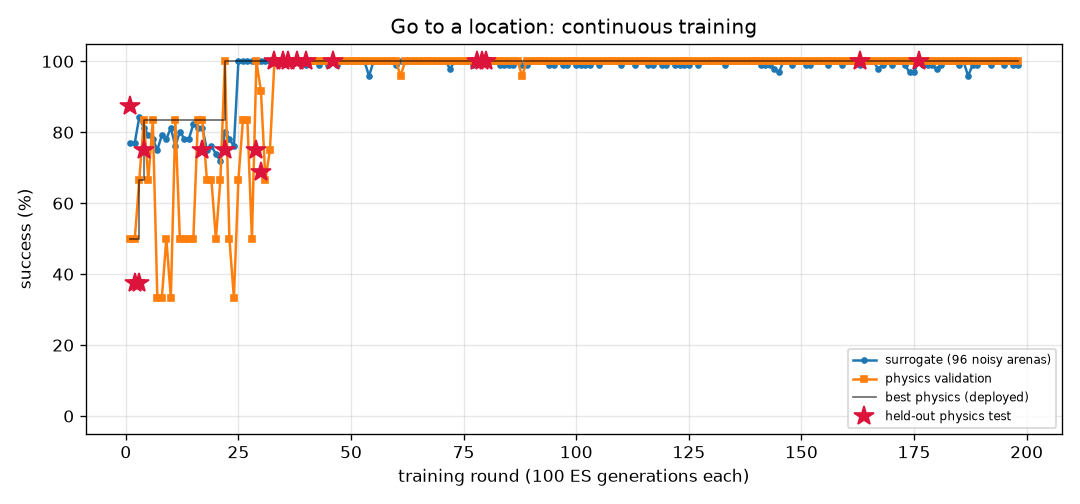
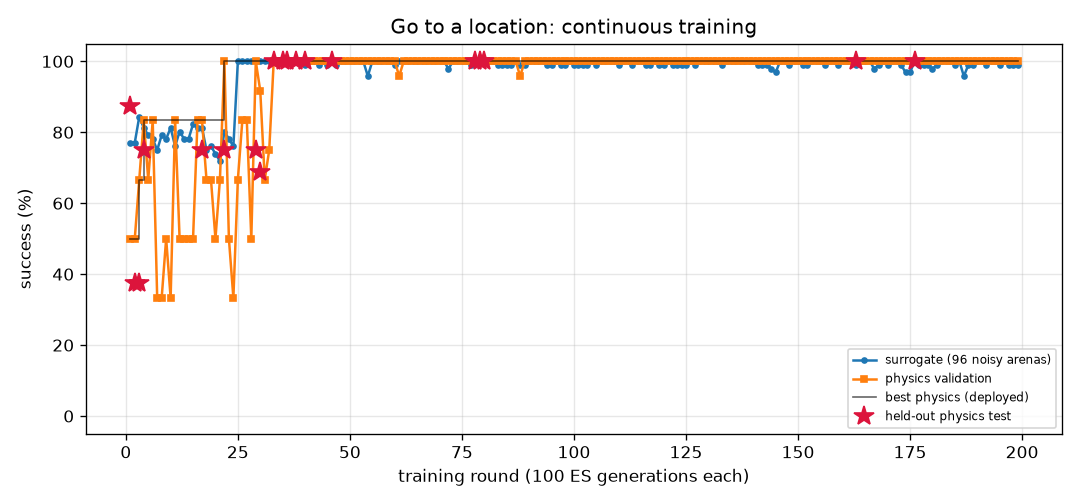
FlyLab: continuous training progress
- walk_forward: optimal, physics val 100% of 24, round 241
- turn: optimal, physics val 100% of 24, round 770
- goto: optimal, physics val 100% of 24, round 199
- odor_seek: optimal, physics val 100% of 24, round 170
- odor_avoid: optimal, physics val 100% of 24, round 705
- light_seek: optimal, physics val 100% of 24, round 394
- light_avoid: optimal, physics val 100% of 24, round 440

diff --git a/projects/09_flylab/training/turn/REPORT.md b/projects/09_flylab/training/turn/REPORT.md
@@ -1,14 +1,14 @@
 # Turn in place (`turn`) — training report
 
-*Auto-generated by `train_brains.py`, last updated 2026-10-30T19:14:37.*
+*Auto-generated by `train_brains.py`, last updated 2026-10-31T19:15:33.*
 
 ![curve](curve.png)
 
 | | |
 |---|---|
-| rounds | 767 |
-| ES generations | 76700 |
-| physics runs | 18654 |
+| rounds | 770 |
+| ES generations | 77000 |
+| physics runs | 18726 |
 | status | **optimal** |
 | best brain | round 80: physics validation **100%** on 24 arenas, surrogate 100% |
 | held-out physics test | **97%** on 32 unseen arenas (95% CI 84%-99%) (errors: [1.6, 3.3, 6.3, 3.7, 1.1, 0.4, 2.4, 2.9, 0.1, 2.6, 0.5, 2.7, 1.5, 3.1, 4.5, 0.2, 0.5, 1.1, 2.0, 4.4, 2.8, 3.2, 0.3, 2.2, 0.5, 3.0, 0.3, 5.4, 0.4, 1.0, 4.7, 10.7]) |
@@ -17,9 +17,6 @@ Physics error per arena: deg from target heading (< 20 = success).
 
 | round | level | gens | sigma | surrogate | physics val | val errors | test | note |
 |---:|---:|---:|---:|---:|---:|---|---:|---|
-| 728 | 3 | 72800 | 0.025 | 99% | 88% | [6.0, 9.0, 0.7, 2.7, 0.6, 46.3, 3.5, 0.8, 4.6, 1.6, 3.0, 1.8, 0.0, 2.7, 2.5, 1.2, 1.5, 0.1, 1.3, 0.8, 6.4, 0.1, 4.8, 3.1] |  | restart from best |
-| 729 | 3 | 72900 | 0.024 | 100% | 79% | [6.1, 4.2, 6.0, 3.5, 1.4, 10.2, 6.6, 7.7, 5.4, 0.4, 4.6, 0.4, 2.4, 2.4, 4.5, 0.4, 0.5, 1.2, 0.1, 0.3, 3.0, 1.1, 6.0, 3.3] |  |  |
-| 730 | 3 | 73000 | 0.024 | 100% | 83% | [2.2, 1.6, 2.3, 0.0, 0.6, 3.7, 8.8, 7.6, 8.4, 1.4, 5.4, 2.0, 1.2, 1.0, 4.5, 2.9, 1.9, 2.5, 2.7, 3.5, 1.7, 2.8, 8.5, 8.1] |  |  |
 | 731 | 3 | 73100 | 0.024 | 99% | 92% | [4.4, 8.0, 5.0, 3.6, 1.6, 0.1, 4.6, 4.7, 4.9, 1.9, 3.7, 0.1, 3.4, 2.7, 2.9, 0.9, 1.1, 0.1, 0.7, 0.8, 3.0, 1.4, 5.1, 0.1] |  |  |
 | 732 | 3 | 73200 | 0.025 | 100% | 75% | [3.9, 3.8, 1.0, 0.2, 0.5, 1.1, 5.7, 6.6, 4.9, 0.8, 5.8, 0.8, 0.8, 2.6, 5.9, 1.6, 0.7, 2.8, 2.4, 2.5, 3.4, 1.7, 7.7, 6.8] |  | restart from best |
 | 733 | 3 | 73300 | 0.024 | 99% | 100% | [1.8, 8.6, 3.6, 0.8, 1.1, 3.4, 3.2, 1.3, 5.0, 1.5, 2.7, 0.9, 3.5, 4.3, 2.6, 1.6, 0.7, 1.3, 1.5, 0.9, 6.1, 0.9, 5.2, 0.6] |  |  |
@@ -57,3 +54,6 @@ Physics error per arena: deg from target heading (< 20 = success).
 | 765 | 3 | 76500 | 0.024 | 99% | 67% | [6.3, 2.7, 5.5, 0.8, 1.8, 0.2, 8.4, 7.5, 6.8, 1.0, 4.8, 0.1, 1.2, 1.2, 6.8, 2.7, 0.2, 2.8, 2.9, 3.9, 5.0, 1.3, 6.1, 8.2] |  |  |
 | 766 | 3 | 76600 | 0.025 | 99% | 83% | [3.1, 3.8, 4.1, 1.8, 4.3, 0.7, 6.8, 2.5, 5.8, 0.0, 5.2, 0.7, 1.0, 2.5, 3.1, 0.4, 1.1, 1.1, 0.3, 0.2, 6.4, 1.1, 5.8, 2.6] |  |  |
 | 767 | 3 | 76700 | 0.025 | 99% | 79% | [1.9, 3.5, 2.0, 0.4, 14.8, 113.2, 6.7, 7.9, 8.5, 15.0, 6.8, 3.1, 0.4, 2.0, 5.9, 4.4, 3.6, 4.0, 4.8, 3.4, 4.3, 3.9, 9.7, 3.5] |  |  |
+| 768 | 3 | 76800 | 0.025 | 99% | 92% | [2.6, 2.1, 4.3, 2.9, 4.6, 0.0, 7.1, 6.2, 7.2, 0.5, 5.3, 1.7, 0.7, 2.2, 4.3, 2.1, 1.6, 1.5, 0.6, 2.0, 6.3, 2.6, 6.0, 1.9] |  | restart from best |
+| 769 | 3 | 76900 | 0.024 | 100% | 75% | [6.7, 7.9, 1.4, 1.8, 1.3, 2.3, 4.2, 3.4, 3.4, 0.5, 3.9, 0.8, 3.9, 2.6, 3.8, 0.5, 0.8, 1.2, 0.8, 0.9, 2.9, 1.2, 3.5, 1.5] |  |  |
+| 770 | 3 | 77000 | 0.024 | 97% | 79% | [5.8, 3.0, 5.5, 0.4, 8.1, 1.2, 6.3, 8.2, 5.9, 0.2, 5.8, 0.1, 1.9, 0.3, 5.2, 2.1, 0.2, 1.3, 1.7, 1.5, 7.8, 0.0, 6.8, 6.0] |  |  |

diff --git a/projects/09_flylab/training/odor_seek/REPORT.md b/projects/09_flylab/training/odor_seek/REPORT.md
@@ -1,14 +1,14 @@
 # Find food by smell (`odor_seek`) — training report
 
-*Auto-generated by `train_brains.py`, last updated 2026-10-30T22:02:13.*
+*Auto-generated by `train_brains.py`, last updated 2026-10-30T22:20:41.*
 
 ![curve](curve.png)
 
 | | |
 |---|---|
-| rounds | 169 |
-| ES generations | 16900 |
-| physics runs | 3486 |
+| rounds | 170 |
+| ES generations | 17000 |
+| physics runs | 3510 |
 | status | **optimal** |
 | best brain | round 137: physics validation **100%** on 24 arenas, surrogate 100% |
 | held-out physics test | **100%** on 32 unseen arenas (95% CI 89%-100%) (errors: [0.14, 0.05, 0.19, 0.15, 0.13, 0.08, 0.06, 0.06, 0.04, 0.06, 0.02, 0.11, 0.05, 0.1, 0.06, 0.01, 0.11, 0.12, 0.14, 0.08, 0.12, 0.06, 0.06, 0.09, 0.12, 0.05, 0.07, 0.07, 0.12, 0.11, 0.06, 0.11]) |
@@ -17,7 +17,6 @@ Physics error per arena: mm from target at the end (< 1.5 and standing still = s
 
 | round | level | gens | sigma | surrogate | physics val | val errors | test | note |
 |---:|---:|---:|---:|---:|---:|---|---:|---|
-| 130 | 3 | 13000 | 0.024 | 100% | 100% | [0.23, 0.26, 0.08, 0.11, 0.21, 0.27, 0.26, 0.07, 0.19, 0.1, 0.18, 0.24, 0.13, 0.18, 0.33, 0.2, 0.17, 0.14, 0.13, 0.19, 0.18, 0.2, 0.24, 0.19] |  |  |
 | 131 | 3 | 13100 | 0.024 | 100% | 100% | [0.17, 0.25, 0.19, 0.22, 0.26, 0.15, 0.21, 0.2, 0.2, 0.31, 0.15, 0.19, 0.21, 0.21, 0.18, 0.19, 0.15, 0.14, 0.18, 0.2, 0.2, 0.24, 0.15, 0.11] |  | restart from best |
 | 132 | 3 | 13200 | 0.024 | 100% | 100% | [0.21, 0.29, 0.24, 0.26, 0.28, 0.3, 0.27, 0.21, 0.21, 0.25, 0.22, 0.2, 0.19, 0.27, 0.2, 0.13, 0.18, 0.23, 0.21, 0.19, 0.21, 0.31, 0.24, 0.21] |  |  |
 | 133 | 3 | 13300 | 0.024 | 100% | 100% | [0.17, 0.18, 0.16, 0.2, 0.17, 0.23, 0.14, 0.26, 0.17, 0.22, 0.16, 0.18, 0.15, 0.28, 0.23, 0.23, 0.26, 0.18, 0.17, 0.22, 0.16, 0.23, 0.17, 0.24] |  |  |
@@ -57,3 +56,4 @@ Physics error per arena: mm from target at the end (< 1.5 and standing still = s
 | 167 | 3 | 16700 | 0.024 | 100% | 100% | [0.12, 0.14, 0.09, 0.1, 0.16, 0.15, 0.14, 0.13, 0.15, 0.12, 0.1, 0.09, 0.09, 0.15, 0.12, 0.12, 0.11, 0.15, 0.11, 0.18, 0.18, 0.12, 0.07, 0.16] |  |  |
 | 168 | 3 | 16800 | 0.024 | 100% | 96% | [0.22, 0.19, 0.07, 0.12, 0.03, 0.18, 0.11, 0.13, 0.14, 0.08, 18.92, 0.16, 0.19, 0.28, 0.18, 0.09, 0.04, 0.09, 0.19, 0.08, 0.14, 0.07, 0.05, 0.08] |  |  |
 | 169 | 3 | 16900 | 0.024 | 100% | 100% | [0.13, 0.17, 0.18, 0.08, 0.22, 0.36, 0.21, 0.11, 0.25, 0.27, 0.28, 0.21, 0.26, 0.25, 0.16, 0.08, 0.33, 0.08, 0.14, 0.06, 0.11, 0.15, 0.25, 0.1] |  | restart from best |
+| 170 | 3 | 17000 | 0.024 | 100% | 100% | [0.2, 0.14, 0.2, 0.23, 0.12, 0.14, 0.14, 0.14, 0.18, 0.15, 0.19, 0.22, 0.14, 0.13, 0.24, 0.13, 0.17, 0.15, 0.2, 0.15, 0.13, 0.13, 0.18, 0.24] |  |  |

diff --git a/projects/09_flylab/training/goto/REPORT.md b/projects/09_flylab/training/goto/REPORT.md
@@ -1,14 +1,14 @@
 # Go to a location (`goto`) — training report
 
-*Auto-generated by `train_brains.py`, last updated 2026-10-30T22:02:12.*
+*Auto-generated by `train_brains.py`, last updated 2026-10-30T22:18:19.*
 
 ![curve](curve.png)
 
 | | |
 |---|---|
-| rounds | 198 |
-| ES generations | 19800 |
-| physics runs | 4702 |
+| rounds | 199 |
+| ES generations | 19900 |
+| physics runs | 4726 |
 | status | **optimal** |
 | best brain | round 176: physics validation **100%** on 24 arenas, surrogate 100% |
 | held-out physics test | **100%** on 32 unseen arenas (95% CI 89%-100%) (errors: [0.2, 0.32, 0.19, 0.24, 0.18, 0.2, 0.19, 0.17, 0.22, 0.23, 0.23, 0.26, 0.2, 0.19, 0.24, 0.23, 0.22, 0.24, 0.2, 0.22, 0.2, 0.2, 0.26, 0.19, 0.22, 0.18, 0.26, 0.22, 0.2, 0.26, 0.23, 0.23]) |
@@ -17,7 +17,6 @@ Physics error per arena: mm from target at the end (< 1.5 and standing still = s
 
 | round | level | gens | sigma | surrogate | physics val | val errors | test | note |
 |---:|---:|---:|---:|---:|---:|---|---:|---|
-| 159 | 3 | 15900 | 0.024 | 99% | 100% | [0.61, 0.54, 0.42, 0.52, 0.41, 0.47, 0.59, 0.47, 0.58, 0.43, 0.46, 0.49, 0.57, 0.41, 0.47, 0.47, 0.61, 0.49, 0.41, 0.57, 0.45, 0.46, 0.59, 0.51] |  |  |
 | 160 | 3 | 16000 | 0.025 | 100% | 100% | [0.55, 0.53, 0.39, 0.44, 0.4, 0.43, 0.48, 0.49, 0.5, 0.39, 0.38, 0.4, 0.51, 0.42, 0.43, 0.48, 0.52, 0.44, 0.39, 0.47, 0.45, 0.39, 0.54, 0.43] |  | restart from best |
 | 161 | 3 | 16100 | 0.024 | 100% | 100% | [0.49, 0.5, 0.36, 0.41, 0.36, 0.41, 0.47, 0.46, 0.44, 0.38, 0.36, 0.4, 0.47, 0.41, 0.47, 0.45, 0.53, 0.4, 0.36, 0.45, 0.42, 0.37, 0.52, 0.43] |  |  |
 | 162 | 3 | 16200 | 0.024 | 100% | 100% | [0.45, 0.5, 0.38, 0.42, 0.12, 0.4, 0.43, 0.43, 0.44, 0.41, 0.38, 0.42, 0.45, 0.39, 0.5, 0.44, 0.5, 0.29, 0.38, 0.45, 0.43, 0.4, 0.49, 0.42] |  |  |
@@ -57,3 +56,4 @@ Physics error per arena: mm from target at the end (< 1.5 and standing still = s
 | 196 | 3 | 19600 | 0.025 | 100% | 100% | [0.49, 0.54, 0.53, 0.44, 0.41, 0.43, 0.47, 0.51, 0.45, 0.42, 0.44, 0.41, 0.48, 0.44, 0.53, 0.51, 0.54, 0.4, 0.39, 0.44, 0.46, 0.45, 0.52, 0.42] |  | restart from best |
 | 197 | 3 | 19700 | 0.024 | 99% | 100% | [0.46, 0.44, 0.46, 0.38, 0.31, 0.36, 0.42, 0.41, 0.42, 0.33, 0.31, 0.37, 0.46, 0.36, 0.44, 0.43, 0.47, 0.38, 0.31, 0.43, 0.38, 0.34, 0.46, 0.36] |  |  |
 | 198 | 3 | 19800 | 0.025 | 99% | 100% | [0.59, 0.63, 0.64, 0.54, 0.56, 0.52, 0.6, 0.56, 0.55, 0.55, 0.54, 0.56, 0.62, 0.55, 0.66, 0.64, 0.61, 0.52, 0.53, 0.59, 0.6, 0.57, 0.63, 0.54] |  |  |
+| 199 | 3 | 19900 | 0.025 | 99% | 100% | [0.68, 0.67, 0.69, 0.58, 0.57, 0.6, 0.67, 0.62, 0.61, 0.53, 0.53, 0.56, 0.65, 0.57, 0.58, 0.6, 0.68, 0.62, 0.55, 0.61, 0.6, 0.51, 0.69, 0.59] |  |  |

diff --git a/projects/09_flylab/training/TRAINING.md b/projects/09_flylab/training/TRAINING.md
@@ -1,15 +1,15 @@
 # FlyLab brains — continuous training log
 
-*Auto-generated by `train_brains.py`, last updated 2026-10-30T22:02:13.*
+*Auto-generated by `train_brains.py`, last updated 2026-10-31T19:15:33.*
 
 Every skill has its own brain and its own training process: surrogate ES rounds, physics validation in MuJoCo, keep-the-best selection, and a held-out physics test that is never used for selection. See each skill's report for its full round-by-round history. Mastery is progressive: passing a level (100% physics validation, >=95% surrogate) doubles the validation and test arena sets; a brain is **optimal** once it holds up at level 3 (>=95% of 24 validation arenas) AND scores >=90% on the 32 held-out test arenas. Test columns show 95% Wilson confidence intervals.
 
 | skill | rounds | ES generations | physics runs | surrogate | physics val | **physics test** | status |
 |---|---:|---:|---:|---:|---:|---:|---|
 | [Walk forward](walk_forward/REPORT.md) | 241 | 24100 | 5798 | 100% | 100% of 24 | 100% of 32 (CI 89-100%) | **optimal** |
-| [Turn in place](turn/REPORT.md) | 767 | 76700 | 18654 | 100% | 100% of 24 | 97% of 32 (CI 84-99%) | **optimal** |
-| [Go to a location](goto/REPORT.md) | 198 | 19800 | 4702 | 100% | 100% of 24 | 100% of 32 (CI 89-100%) | **optimal** |
-| [Find food by smell](odor_seek/REPORT.md) | 169 | 16900 | 3486 | 100% | 100% of 24 | 100% of 32 (CI 89-100%) | **optimal** |
+| [Turn in place](turn/REPORT.md) | 770 | 77000 | 18726 | 100% | 100% of 24 | 97% of 32 (CI 84-99%) | **optimal** |
+| [Go to a location](goto/REPORT.md) | 199 | 19900 | 4726 | 100% | 100% of 24 | 100% of 32 (CI 89-100%) | **optimal** |
+| [Find food by smell](odor_seek/REPORT.md) | 170 | 17000 | 3510 | 100% | 100% of 24 | 100% of 32 (CI 89-100%) | **optimal** |
 | [Escape a bad smell](odor_avoid/REPORT.md) | 705 | 70500 | 14226 | 97% | 100% of 24 | 97% of 32 (CI 84-99%) | **optimal** |
 | [Walk toward light](light_seek/REPORT.md) | 394 | 39400 | 6336 | 100% | 100% of 24 | 100% of 32 (CI 89-100%) | **optimal** |
 | [Hide from light](light_avoid/REPORT.md) | 440 | 44000 | 10832 | 100% | 100% of 24 | 100% of 32 (CI 89-100%) | **optimal** |
